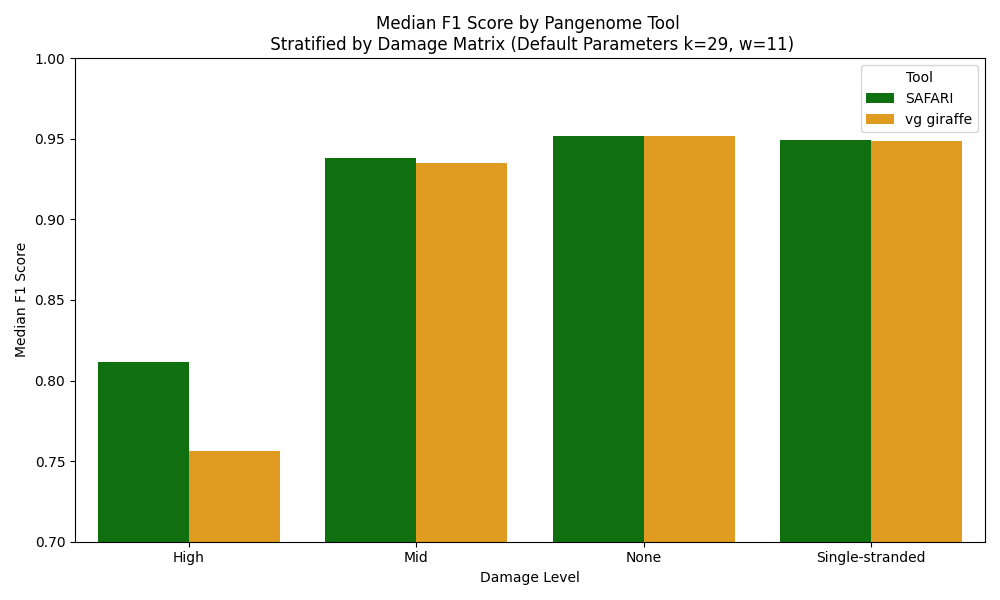
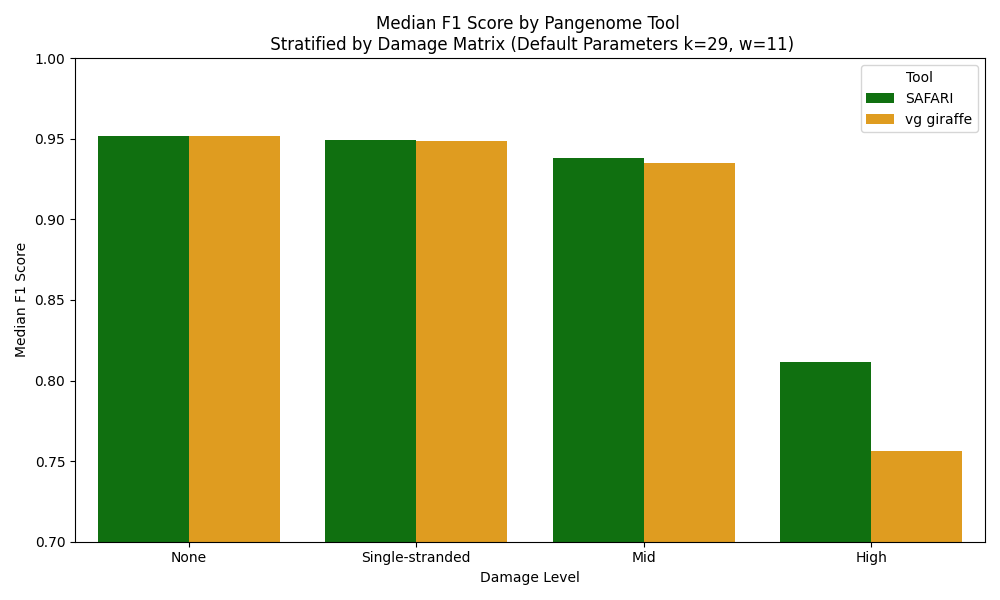
Update

diff --git a/linear_experiment/human_mito/stat_results/plot_F1_default_pangenome.py b/linear_experiment/human_mito/stat_results/plot_F1_default_pangenome.py
@@ -14,8 +14,15 @@ def main():
     # Calculate median F1 scores
     median_f1_scores = subset_df.groupby(['tool', 'damage_level'])['f1'].median().reset_index()
 
+    # Define custom order for damage levels
+    damage_order = ['None', 'Single-stranded', 'Mid', 'High']
+    median_f1_scores['damage_level'] = pd.Categorical(median_f1_scores['damage_level'], categories=damage_order, ordered=True)
+
+    # Sort the DataFrame by the 'damage_level' to ensure the plot follows the custom order
+    median_f1_scores.sort_values('damage_level', inplace=True)
+
     # Correcting the case sensitivity issue for the palette
-    corrected_palette = {'vg giraffe': 'orange', 'SAFARI': 'green'}
+    corrected_palette = {'vg giraffe': 'orange', 'SAFARI': 'green'}  # Ensure correct case for consistency
 
     # Create a barplot
     plt.figure(figsize=(10, 6))
